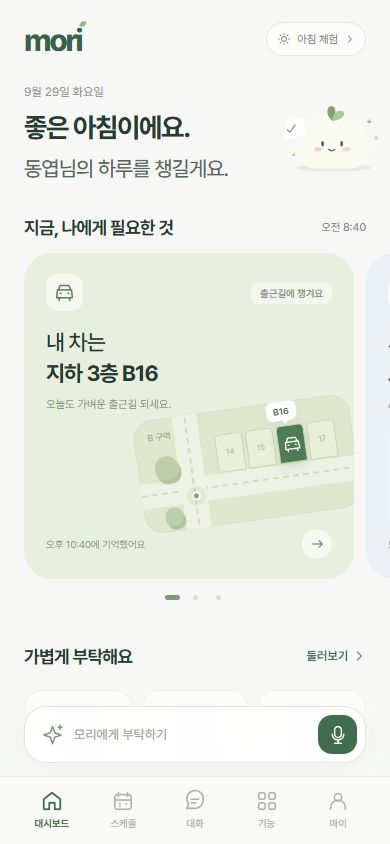
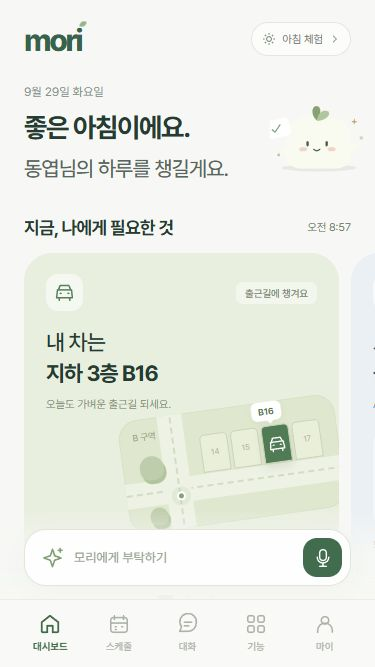
Fix small-screen app layouts and mobile preview

diff --git a/styles/main.css b/styles/main.css
@@ -2948,9 +2948,231 @@ dialog::backdrop {
 
 .day-choices {
   display: grid;
-  grid-template-columns: 1fr 1fr;
+  grid-template-columns: minmax(0, 1fr);
 }
 
+#main:not(.has-composer) {
+  padding-bottom: calc(90px + env(safe-area-inset-bottom));
+}
+
+.mori-small img {
+  width: 98px;
+  left: -10px;
+  top: 12px;
+}
+
+@media (min-width: 600px) {
+  .day-choices {
+    grid-template-columns: repeat(2, minmax(0, 1fr));
+  }
+}
+@media (max-width: 599px) {
+  .day-choices button {
+    grid-template-columns: 29px minmax(0, 1fr) auto;
+    gap: 4px 10px;
+    padding: 14px 16px;
+    border-radius: 16px;
+  }
+  .day-choices button > .icon {
+    width: 25px;
+    height: 25px;
+  }
+  .day-choices button strong {
+    font-size: 14px;
+  }
+  .day-choices button > span {
+    font-size: 13px;
+  }
+  .day-choices button small {
+    overflow-wrap: anywhere;
+  }
+}
+@media (max-width: 420px) {
+  #event-form .field-pair {
+    grid-template-columns: minmax(0, 1fr);
+    gap: 0;
+  }
+  #event-form .field-pair .field {
+    min-width: 0;
+  }
+}
+@media (max-width: 359px) {
+  .parking-detail {
+    min-height: 0;
+  }
+  .parking-detail h2 strong {
+    font-size: 43px;
+  }
+  .parking-detail .parking-map {
+    position: relative;
+    width: 100%;
+    height: 108px;
+    bottom: auto;
+    right: auto;
+    margin: 18px 0 3px;
+    transform: rotate(-4deg);
+  }
+  .plan-options {
+    grid-template-columns: minmax(0, 1fr);
+  }
+  .plan-options button {
+    padding: 14px 17px;
+  }
+  .plan-options button.selected {
+    padding: 13px 16px;
+  }
+  .plan-options button h3 {
+    margin: 5px 0;
+  }
+}
+@media (max-width: 699px) and (max-height: 650px) {
+  .voice-panel {
+    padding: calc(13px + env(safe-area-inset-top)) 18px calc(14px + env(safe-area-inset-bottom));
+  }
+  .voice-orb {
+    width: 100px;
+    height: 100px;
+    margin: 8px auto 5px;
+  }
+  .voice-orb > span .icon {
+    width: 34px;
+    height: 34px;
+  }
+  .voice-panel h2 {
+    font-size: 20px;
+  }
+  .voice-panel > p {
+    margin-top: 4px;
+  }
+  .record-button {
+    width: 44px;
+    height: 44px;
+    margin-top: 12px;
+    box-shadow: 0 0 0 5px #e9f0df;
+  }
+  .record-button .icon {
+    width: 20px;
+    height: 20px;
+  }
+  .voice-panel textarea {
+    height: 65px;
+    margin: 12px 0;
+    padding: 8px;
+  }
+  .voice-examples {
+    gap: 5px;
+  }
+  .voice-examples > span {
+    margin-bottom: 0;
+  }
+  .voice-examples button {
+    padding: 7px 8px;
+    font-size: 10px;
+  }
+  .voice-panel > .primary-button {
+    min-height: 45px;
+    margin-top: 10px;
+  }
+}
+@media (max-height: 530px) and (orientation: landscape) {
+  #main {
+    padding-top: 10px;
+  }
+  .home-top {
+    margin-bottom: 7px;
+  }
+  .home-greeting {
+    margin-bottom: 9px;
+  }
+  .home-greeting > p {
+    margin-bottom: 2px;
+  }
+  .home-greeting h1 {
+    font-size: 20px;
+    line-height: 1.25;
+  }
+  .home-greeting h1 span {
+    font-size: 15px;
+  }
+  .greeting-avatar {
+    width: 66px;
+    height: 53px;
+    right: 0;
+    top: 4px;
+  }
+  .greeting-avatar img {
+    width: 94px;
+    left: -17px;
+    top: 0;
+  }
+  .now-section > .section-heading {
+    margin-bottom: 8px;
+  }
+  .voice-panel[open] {
+    display: grid;
+    grid-template-columns: minmax(0, 2fr) minmax(0, 3fr);
+    grid-template-rows: 34px 76px 32px 40px 47px;
+    align-content: start;
+    align-items: center;
+    column-gap: 16px;
+    padding: 8px 18px 12px;
+    overflow-y: auto;
+  }
+  .voice-panel > header {
+    grid-column: 1/-1;
+    grid-row: 1;
+  }
+  .voice-orb {
+    grid-column: 1;
+    grid-row: 2;
+    width: 72px;
+    height: 72px;
+    margin: 0 auto;
+  }
+  .voice-orb > span .icon {
+    width: 28px;
+    height: 28px;
+  }
+  .voice-panel h2 {
+    grid-column: 1;
+    grid-row: 3;
+    font-size: 16px;
+  }
+  .voice-panel > p {
+    grid-column: 1;
+    grid-row: 4;
+    font-size: 9px;
+    line-height: 1.3;
+    margin: 0;
+  }
+  .record-button {
+    grid-column: 1;
+    grid-row: 5;
+    width: 39px;
+    height: 39px;
+    margin: 0 auto;
+  }
+  .voice-panel textarea {
+    grid-column: 2;
+    grid-row: 2;
+    height: 62px;
+    margin: 0;
+  }
+  .voice-examples {
+    grid-column: 2;
+    grid-row: 3/span 2;
+  }
+  .voice-examples button {
+    padding: 5px 6px;
+    font-size: 9px;
+  }
+  .voice-panel > .primary-button {
+    grid-column: 2;
+    grid-row: 5;
+    min-height: 42px;
+    margin: 0;
+  }
+}
 [hidden] {
   display: none !important;
 }

diff --git a/styles/experience.scss b/styles/experience.scss
@@ -170,7 +170,67 @@ dialog { border: 0; padding: 0; color: $ink; background: #fafbf8; box-shadow: 0 
 .reduce-motion *, .reduce-motion *::before, .reduce-motion *::after { animation: none !important; transition: none !important; scroll-behavior: auto !important; }
 
 .time-card { display: flex; flex-direction: column; align-items: stretch; justify-content: flex-start; }
-.day-choices { display: grid; grid-template-columns: 1fr 1fr; }
+.day-choices { display: grid; grid-template-columns: minmax(0, 1fr); }
+
+#main:not(.has-composer) { padding-bottom: calc(90px + env(safe-area-inset-bottom)); }
+.mori-small img { width: 98px; left: -10px; top: 12px; }
+@media (min-width: 600px) { .day-choices { grid-template-columns: repeat(2, minmax(0, 1fr)); } }
+@media (max-width: 599px) {
+  .day-choices button { grid-template-columns: 29px minmax(0, 1fr) auto; gap: 4px 10px; padding: 14px 16px; border-radius: 16px; }
+  .day-choices button > .icon { width: 25px; height: 25px; }
+  .day-choices button strong { font-size: 14px; }
+  .day-choices button > span { font-size: 13px; }
+  .day-choices button small { overflow-wrap: anywhere; }
+}
+@media (max-width: 420px) {
+  #event-form .field-pair { grid-template-columns: minmax(0, 1fr); gap: 0; }
+  #event-form .field-pair .field { min-width: 0; }
+}
+@media (max-width: 359px) {
+  .parking-detail { min-height: 0; }
+  .parking-detail h2 strong { font-size: 43px; }
+  .parking-detail .parking-map { position: relative; width: 100%; height: 108px; bottom: auto; right: auto; margin: 18px 0 3px; transform: rotate(-4deg); }
+  .plan-options { grid-template-columns: minmax(0, 1fr); }
+  .plan-options button { padding: 14px 17px; }
+  .plan-options button.selected { padding: 13px 16px; }
+  .plan-options button h3 { margin: 5px 0; }
+}
+@media (max-width: 699px) and (max-height: 650px) {
+  .voice-panel { padding: calc(13px + env(safe-area-inset-top)) 18px calc(14px + env(safe-area-inset-bottom)); }
+  .voice-orb { width: 100px; height: 100px; margin: 8px auto 5px; }
+  .voice-orb > span .icon { width: 34px; height: 34px; }
+  .voice-panel h2 { font-size: 20px; }
+  .voice-panel > p { margin-top: 4px; }
+  .record-button { width: 44px; height: 44px; margin-top: 12px; box-shadow: 0 0 0 5px #e9f0df; }
+  .record-button .icon { width: 20px; height: 20px; }
+  .voice-panel textarea { height: 65px; margin: 12px 0; padding: 8px; }
+  .voice-examples { gap: 5px; }
+  .voice-examples > span { margin-bottom: 0; }
+  .voice-examples button { padding: 7px 8px; font-size: 10px; }
+  .voice-panel > .primary-button { min-height: 45px; margin-top: 10px; }
+}
+@media (max-height: 530px) and (orientation: landscape) {
+  #main { padding-top: 10px; }
+  .home-top { margin-bottom: 7px; }
+  .home-greeting { margin-bottom: 9px; }
+  .home-greeting > p { margin-bottom: 2px; }
+  .home-greeting h1 { font-size: 20px; line-height: 1.25; }
+  .home-greeting h1 span { font-size: 15px; }
+  .greeting-avatar { width: 66px; height: 53px; right: 0; top: 4px; }
+  .greeting-avatar img { width: 94px; left: -17px; top: 0; }
+  .now-section > .section-heading { margin-bottom: 8px; }
+  .voice-panel[open] { display: grid; grid-template-columns: minmax(0, 2fr) minmax(0, 3fr); grid-template-rows: 34px 76px 32px 40px 47px; align-content: start; align-items: center; column-gap: 16px; padding: 8px 18px 12px; overflow-y: auto; }
+  .voice-panel > header { grid-column: 1 / -1; grid-row: 1; }
+  .voice-orb { grid-column: 1; grid-row: 2; width: 72px; height: 72px; margin: 0 auto; }
+  .voice-orb > span .icon { width: 28px; height: 28px; }
+  .voice-panel h2 { grid-column: 1; grid-row: 3; font-size: 16px; }
+  .voice-panel > p { grid-column: 1; grid-row: 4; font-size: 9px; line-height: 1.3; margin: 0; }
+  .record-button { grid-column: 1; grid-row: 5; width: 39px; height: 39px; margin: 0 auto; }
+  .voice-panel textarea { grid-column: 2; grid-row: 2; height: 62px; margin: 0; }
+  .voice-examples { grid-column: 2; grid-row: 3 / span 2; }
+  .voice-examples button { padding: 5px 6px; font-size: 9px; }
+  .voice-panel > .primary-button { grid-column: 2; grid-row: 5; min-height: 42px; margin: 0; }
+}
 
 [hidden] { display: none !important; }
 .secondary-button { color: #536d49; }

diff --git a/src/app-experience.js b/src/app-experience.js
@@ -76,10 +76,22 @@ function my() { return `${heading('마이', '나에게 더 잘 맞는 모리')}<
     ${section('앱 체험')}<div class="settings-list">${button('day-preview', `${mark('clock', 'blue')}<span>하루 미리보기</span><small>${time(current())}</small>${arrow}`, 'setting-row')}${button('guide', `${mark('compass', 'green')}<span>시나리오 둘러보기</span>${arrow}`, 'setting-row')}${button('account', `${mark('shield', 'purple')}<span>실제 계정 연결</span><small>${ui.liveUser ? '연결됨' : '선택 사항'}</small>${arrow}`, 'setting-row')}${button('reset', `${mark('repeat', 'soft')}<span>체험 데이터 초기화</span>${arrow}`, 'setting-row')}</div><p class="preview-explanation">이 화면은 기기에 저장되는 앱 체험이에요.<br>뉴스·시세는 예시이며, 결제와 기기 푸시는 실행되지 않아요.</p><div class="brand-footer">mori <span>작은 부탁, 가벼운 하루.</span></div>`; }
 function toggleRow(key, title, name, checked) { return button('preference', `${mark(name, 'soft')}<span>${title}</span><span class="switch ${checked ? 'on' : ''}"><i></i></span>`, 'setting-row', `data-key="${key}" role="switch" aria-checked="${checked}"`); }
 function render() {
-  $('#main').innerHTML = ({ dashboard, schedule, conversations, features, my }[ui.view] || dashboard)();
+  const main = $('#main');
+  const previousScroll = main.scrollTop;
+  const oldCarousel = $('#time-carousel');
+  const oldIndex = oldCarousel?.firstElementChild ? Math.round(oldCarousel.scrollLeft / (oldCarousel.firstElementChild.getBoundingClientRect().width + 12)) : 0;
+  const cardRef = oldCarousel?.children[oldIndex]?.dataset.ref;
+  main.innerHTML = ({ dashboard, schedule, conversations, features, my }[ui.view] || dashboard)();
+  main.classList.toggle('has-composer', ui.view === 'dashboard');
+  main.scrollTop = previousScroll;
   $('#tabs').innerHTML = [['dashboard', 'home', '대시보드'], ['schedule', 'calendar', '스케줄'], ['conversations', 'chat', '대화'], ['features', 'grid', '기능'], ['my', 'user', '마이']].map(([v, i, label]) => `<button type="button" data-view="${v}" ${v === ui.view ? 'aria-current="page"' : ''}>${icon(i)}<span>${label}</span></button>`).join('');
   $('#quick-composer').hidden = ui.view !== 'dashboard'; document.documentElement.classList.toggle('reduce-motion', data.profile.reduced);
-  const carousel = $('#time-carousel'); if (carousel) carousel.addEventListener('scroll', () => { const index = Math.round(carousel.scrollLeft / (carousel.firstElementChild.getBoundingClientRect().width + 12)); document.querySelectorAll('.carousel-dots button').forEach((el, i) => el.classList.toggle('active', i === index)); }, { passive: true });
+  const carousel = $('#time-carousel'); if (carousel) {
+    const index = [...carousel.children].findIndex(card => card.dataset.ref === cardRef);
+    if (index > 0) carousel.scrollLeft = index * (carousel.firstElementChild.getBoundingClientRect().width + 12);
+    const syncDots = () => { const currentIndex = Math.round(carousel.scrollLeft / (carousel.firstElementChild.getBoundingClientRect().width + 12)); document.querySelectorAll('.carousel-dots button').forEach((el, i) => el.classList.toggle('active', i === currentIndex)); };
+    carousel.addEventListener('scroll', syncDots, { passive: true }); syncDots();
+  }
 }
 function route() { const next = location.hash.slice(1); ui.view = ['dashboard', 'schedule', 'conversations', 'features', 'my'].includes(next) ? next : 'dashboard'; render(); $('#main').scrollTop = 0; }
 function go(view) { if (location.hash === `#${view}`) route(); else location.hash = view; }

diff --git a/docs/app-poc.md b/docs/app-poc.md
@@ -47,4 +47,7 @@
 - 뉴스 실패/재수집/완료, 애플 USD와 주간 그래프 전환 확인.
 - 실제 문서 내용/원문 결과 생성 및 다운로드 요청 확인. 인앱 브라우저의 다운로드 이벤트 대기가 시간 초과하여 OS 파일 저장 완료는 검증하지 못했습니다.
 - 390×844 폰 세로, 844×390 폰 가로, 768×1024 태블릿 세로, 1024×768 태블릿 가로 확인. 페이지 가로 넘침 없음. 검증 중 콘솔 오류 없음.
+- 작은 폰 기준으로 320×568 세로, 375×667 세로, 568×320 가로를 다시 확인. 5개 탭, 대화창, 음성 입력, 주차·뉴스·알림·문서·커스텀 상세, 하루 미리보기, 일정 입력, 요금제 선택에서 가로 넘침과 버튼 접근성을 확인했습니다.
+- 320px 폭에서 하루 미리보기 카드의 글자 쪼개짐, 일정 날짜·시간 입력의 가로 넘침, 주차 지도와 위치 번호의 겹침, 요금제 카드 줄바꿈을 수정했습니다. 작은 폰 높이에서는 음성 전송 버튼이 보이게 조정했고, 가로 화면에는 음성 입력을 두 열로 배치했습니다.
+- 대시보드 외 탭의 과도한 하단 빈 공간과 대화 목록 마스코트 잘림을 줄였습니다. 화면 갱신 시 현재 스크롤과 카드 위치를 보존합니다. 위 미리보기 이미지는 375×667 모바일 화면입니다.
 - 실제 마이크 녹음, 소셜 실계정, GPU/Hermes, OS 푸시, Excel/PDF 처리는 이번 UI 검증 범위 밖입니다.
